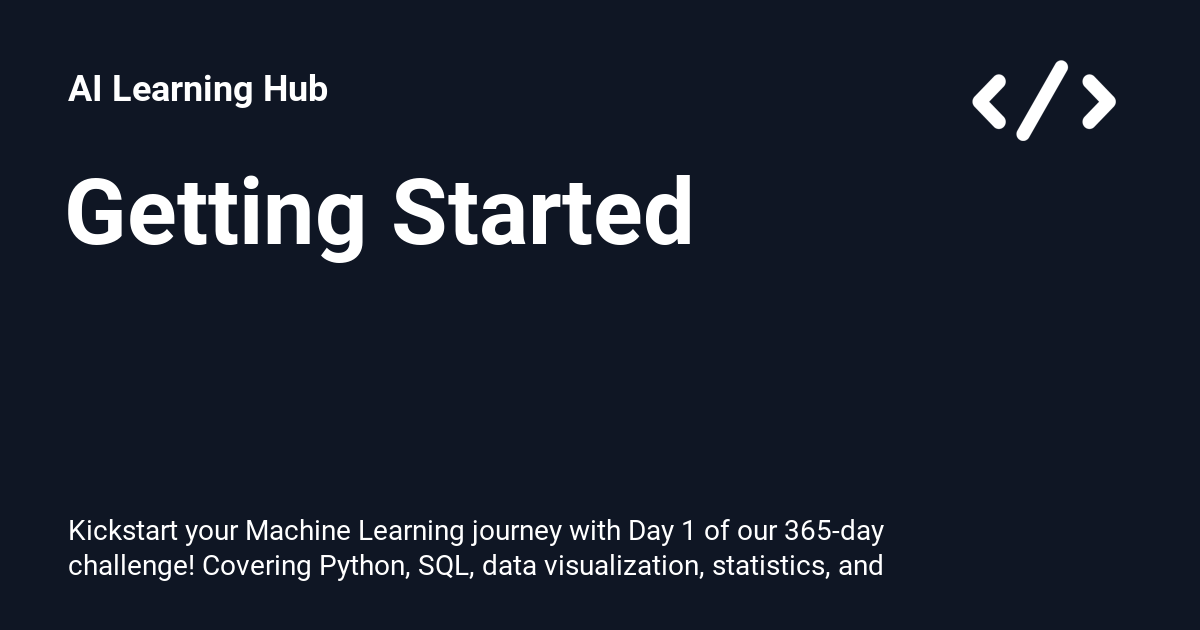
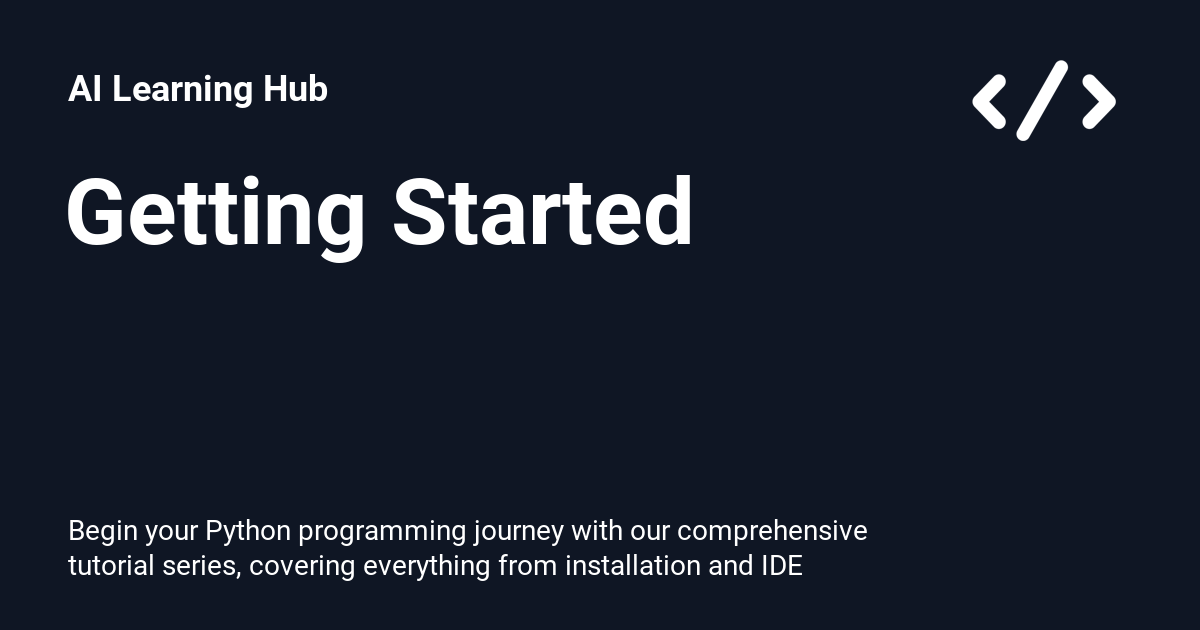
Deployed 6b03953 with MkDocs version: 1.5.3

Changed region(s): [[0.0617, 0.8143, 0.74, 0.9349]]

diff --git a/ai_roadmap/python/getting_started/index.html b/ai_roadmap/python/getting_started/index.html
@@ -6,7 +6,7 @@
       <meta charset="utf-8">
       <meta name="viewport" content="width=device-width,initial-scale=1">
       
-        <meta name="description" content="Kickstart your Machine Learning journey with Day 1 of our 365-day challenge! Covering Python, SQL, data visualization, statistics, and more. Ideal for beginners and those preparing for interviews.">
+        <meta name="description" content="Begin your Python programming journey with our comprehensive tutorial series, covering everything from installation and IDE selection to crafting your first script in Google Colab, paving the way for advanced learning in web development, data science, and AI.">
       
       
         <meta name="author" content="Dan Kornas">
@@ -67,7 +67,7 @@
       
         <meta  property="og:title"  content="Getting Started - AI Learning Hub" >
       
-        <meta  property="og:description"  content="Kickstart your Machine Learning journey with Day 1 of our 365-day challenge! Covering Python, SQL, data visualization, statistics, and more. Ideal for beginners and those preparing for interviews." >
+        <meta  property="og:description"  content="Begin your Python programming journey with our comprehensive tutorial series, covering everything from installation and IDE selection to crafting your first script in Google Colab, paving the way for advanced learning in web development, data science, and AI." >
       
         <meta  property="og:image"  content="https://ailearninghub.io/assets/images/social/ai_roadmap/python/getting_started.png" >
       
@@ -83,7 +83,7 @@
       
         <meta  name="twitter:title"  content="Getting Started - AI Learning Hub" >
       
-        <meta  name="twitter:description"  content="Kickstart your Machine Learning journey with Day 1 of our 365-day challenge! Covering Python, SQL, data visualization, statistics, and more. Ideal for beginners and those preparing for interviews." >
+        <meta  name="twitter:description"  content="Begin your Python programming journey with our comprehensive tutorial series, covering everything from installation and IDE selection to crafting your first script in Google Colab, paving the way for advanced learning in web development, data science, and AI." >
       
         <meta  name="twitter:image"  content="https://ailearninghub.io/assets/images/social/ai_roadmap/python/getting_started.png" >
       
